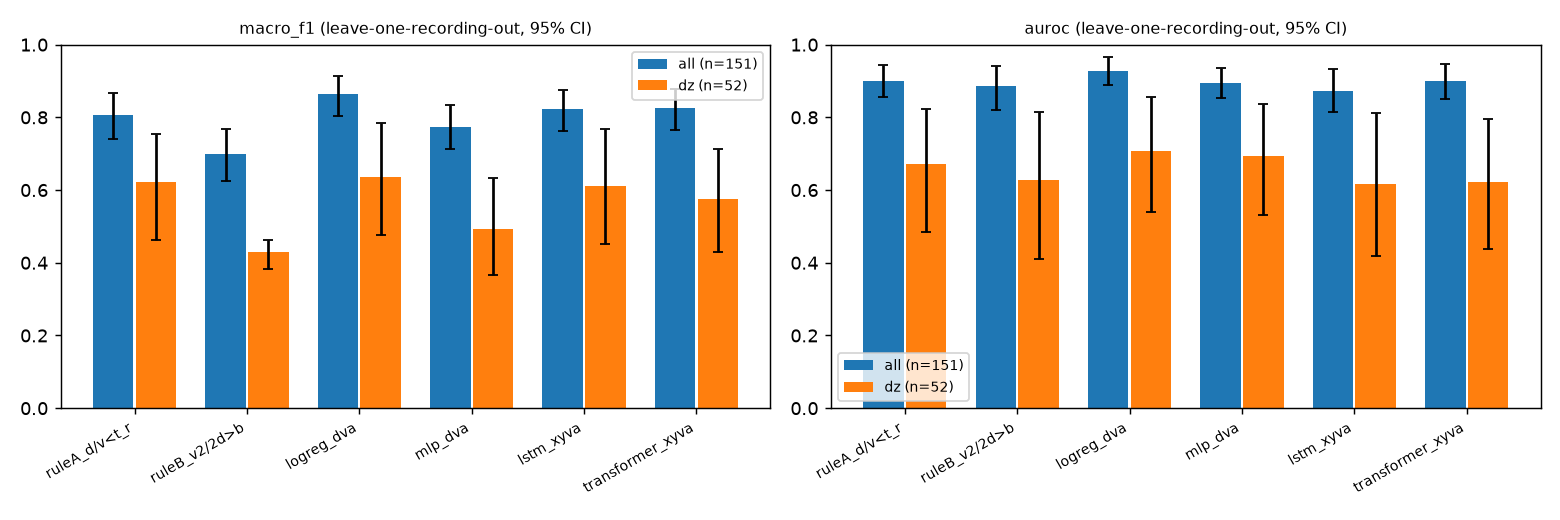
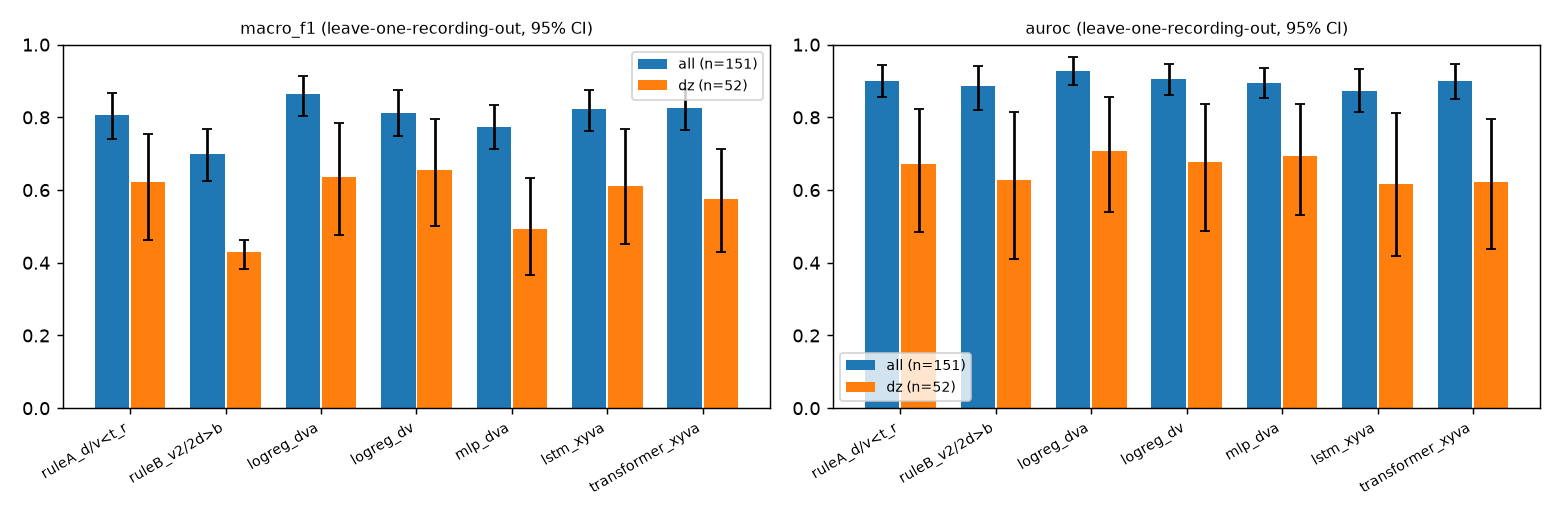
Benchmark: offset-wise CIs vs rule A and (d, v) logistic-regression ablation
- offsets.csv: bootstrap 95% CI of the difference to rule A at signal offsets -1/0/+1 s
- logreg_dv (no acceleration): gain over rule A vanishes (+0.006, CI -0.016..+0.030) -> the LR gain comes from a
- earlier rows reproduce exactly (fixed seeds)

diff --git a/src/dzp/bench_models.py b/src/dzp/bench_models.py
@@ -57,15 +57,17 @@ class RuleB:
 
 
 class _Tab:
+    cols = DVA
+
     def __init__(self, est):
         self.est = est
 
     def fit(self, F, S, y):
-        self.est.fit(F[DVA].values, y)
+        self.est.fit(F[self.cols].values, y)
         return self
 
     def proba(self, F, S):
-        return self.est.predict_proba(F[DVA].values)[:, 1]
+        return self.est.predict_proba(F[self.cols].values)[:, 1]
 
     score = proba
 
@@ -75,6 +77,13 @@ class LogRegDVA(_Tab):
 
     def __init__(self, **_):
         super().__init__(make_pipeline(StandardScaler(), LogisticRegression(class_weight="balanced", max_iter=1000)))
+
+
+class LogRegDV(LogRegDVA):
+    """Ablation: logistic regression without acceleration -- does the gain over rule A come from a?"""
+
+    name = "logreg_dv"
+    cols = ["d", "v"]
 
 
 class MLPDVA(_Tab):
@@ -163,7 +172,8 @@ class TransformerSeq(_Seq):
 
 
 def model_list(decel: float = 3.0, transformer: bool = True, n_seeds: int = 3):
-    ms = [(RuleA, {}), (RuleB, {"decel": decel}), (LogRegDVA, {}), (MLPDVA, {}), (LSTMSeq, {"n_seeds": n_seeds})]
+    ms = [(RuleA, {}), (RuleB, {"decel": decel}), (LogRegDVA, {}), (LogRegDV, {}), (MLPDVA, {}),
+          (LSTMSeq, {"n_seeds": n_seeds})]
     if transformer:
         ms.append((TransformerSeq, {"n_seeds": n_seeds}))
     return ms

diff --git a/scripts/run_benchmark.py b/scripts/run_benchmark.py
@@ -188,7 +188,7 @@ def main():
             fa["ev"] = fa["ev"].map({q: i for i, q in enumerate(th)})
             F_o, S_o = at(fa, {L: s[th] for L, s in sa.items()}, 0.0, np.arange(len(e_o)))
         P = bench_eval.oof(models, F_o, S_o, e_o, "group")
-        b = bench_eval.bootstrap(e_o, P, None, args.n_boot)
+        b = bench_eval.bootstrap(e_o, P, None, args.n_boot, ref=ref)
         b = b.assign(offset_s=o, n_events=len(e_o), n_go=int(e_o["label"].sum()))
         for mname in ("macro_f1", "auroc"):
             r = b[b.metric == mname].copy()

diff --git a/docs/FINDINGS.md b/docs/FINDINGS.md
@@ -188,18 +188,27 @@
   - 규칙 B가 황색 전 시점에 무너지는 것은, 멀리 있는 차량은 필요 감속도가 작아 모두 "정지"로 판정되기 때문이다 [추측, 정의상 자연스러움].
 - **신호 오프셋 민감도** (leave-one-video-out, 황색 시작 시점; 신호 기록이 1 s 단위라 −1 / 0 / +1 s):
   - 이벤트가 162 / 151 / 136건(통과 89 / 64 / 38)으로 바뀐다. 오프셋에 따라 라벨 분포가 크게 움직인다.
-  - macro-F1 순위:
+  - macro-F1 순위 (원래 6개 모델 기준):
     - 규칙 A는 세 경우 모두 4위다.
-    - LR은 1 / 1 / 3위, Transformer는 2 / 2 / 2위, MLP는 5 / 5 / 1위다. 규칙 B는 6 / 6 / 5위다.
+    - LR(d, v, a)은 1 / 1 / 3위, Transformer는 2 / 2 / 2위, MLP는 5 / 5 / 1위다.
     - **"LR·Transformer > 규칙 A > 규칙 B" 관계는 세 오프셋에서 모두 유지된다.** 학습 모델끼리의 순위는 바뀐다.
-  - AUROC 순위: LR이 세 경우 모두 1위다.
-  - 오프셋 ±1 s에서는 차이의 CI를 계산하지 않아 순위가 유의한지는 모른다 [확인 안 함].
+  - AUROC 순위: LR(d, v, a)이 세 경우 모두 1위다.
+  - **(보충) 오프셋별 규칙 A 대비 macro-F1 차이의 95% CI** (`offsets.csv`의 `diff_*` 열):
+    - LR(d, v, a): −1 s +0.029 (−0.019 – +0.080), 0 s +0.058 (+0.013 – +0.106), +1 s +0.059 (+0.005 – +0.118). **−1 s에서는 유의하지 않다.**
+    - Transformer·LSTM·MLP: 세 오프셋 모두 유의하지 않다. MLP +1 s는 +0.081 (−0.002 – +0.167).
+    - 규칙 B: −1 s와 0 s에서 유의하게 낮고(−0.146, −0.106), +1 s에서는 유의하지 않다(−0.025).
+    - 즉 "LR > 규칙 A"는 오프셋 0 / +1 s에서만 유의하다. 신호 시각이 1 s 늦게 기록됐다면(−1 s가 맞다면) 그 이득은 유의하지 않다. [확인]
 
 **해석과 한계**
 - 이 결과는 **교차로 1곳(FI)의 동서 접근로, 저속 도심(접근 속도 약 7 m/s), 151건**에서 나온 것이다.
   - 처음 보는 교차로에 대한 일반화는 평가하지 않았다. 영상 단위 fold는 같은 교차로 안에서 시간대만 바꾼 것이다.
   - 신호는 1 s 단위라 t_r에 ±0.5 s 오차가 있다.
-- 단순한 LR(d, v, a)이 규칙 A보다 조금 낫다(+0.06). 이는 이 교차로 운전자들의 경계가 등속 규칙의 경계(d = 3v)와 기울기·절편이 다르기 때문으로 보인다 [추측]. 그림 `fig2_dv_plane.png`에서는 d = 3v 선 아래(규칙 A가 통과로 판정하는 쪽)에도 정지 차량이 일부 있다.
+- 단순한 LR(d, v, a)이 규칙 A보다 조금 낫다(+0.06). 아래 ablation에서 a를 빼면 이득이 사라지므로, (d, v) 경계 자체의 차이보다는 가속도 정보 덕분이다. 처음에는 경계 차이 때문이라고 추측했는데 이 추측은 기각됐다. 그림 `fig2_dv_plane.png`에서는 d = 3v 선 아래(규칙 A가 통과로 판정하는 쪽)에도 정지 차량이 일부 있다.
+- **(보충) 가속도 ablation — LR(d, v)** (`metrics.csv`의 `logreg_dv` 행):
+  - leave-one-video-out: macro-F1 0.812, 규칙 A 대비 +0.006 (−0.016 – +0.030). AUROC +0.006 (−0.008 – +0.020).
+  - 반복 층화 5-fold: −0.000 (−0.020 – +0.020).
+  - 오프셋 −1 / +1 s에서도 유의하지 않다(−0.012, −0.002).
+  - → **a를 빼면 규칙 A 대비 이득이 사라진다. LR의 이득(+0.058)은 가속도에서 온다** [확인: 수치]. 황색 시작 시점에 이미 감속 중인 차량(예측 가능한 정지)을 a가 구분해 준다는 해석은 [추측]이다. 운전자가 녹색 잔여시간이나 앞차를 보고 먼저 감속했을 수 있다.
 - 시퀀스 모델(LSTM·Transformer)은 황색 시작 시점에 순간값 모델보다 낫지 않다. 151건에 시드 3개, 튜닝 없이 돌린 결과라 시퀀스 모델의 가치는 이 데이터로 판단할 수 없다 [추측].
 - 딜레마존 구간(52건, 통과 13)은 CI가 넓어 어떤 모델도 규칙 A와 구분되지 않는다. 연구 질문의 핵심 구간이라 SinD 전체 데이터에서 표본을 늘려야 한다.
 - 규칙 B(문턱 3.0 m/s²)는 일관되게 가장 나쁘다. 저속 도심에서는 3 m/s²가 너무 높은 문턱일 수 있다 [추측]. 문턱은 인자 `--decel`로 바꿀 수 있지만 튜닝하지 않았다.
